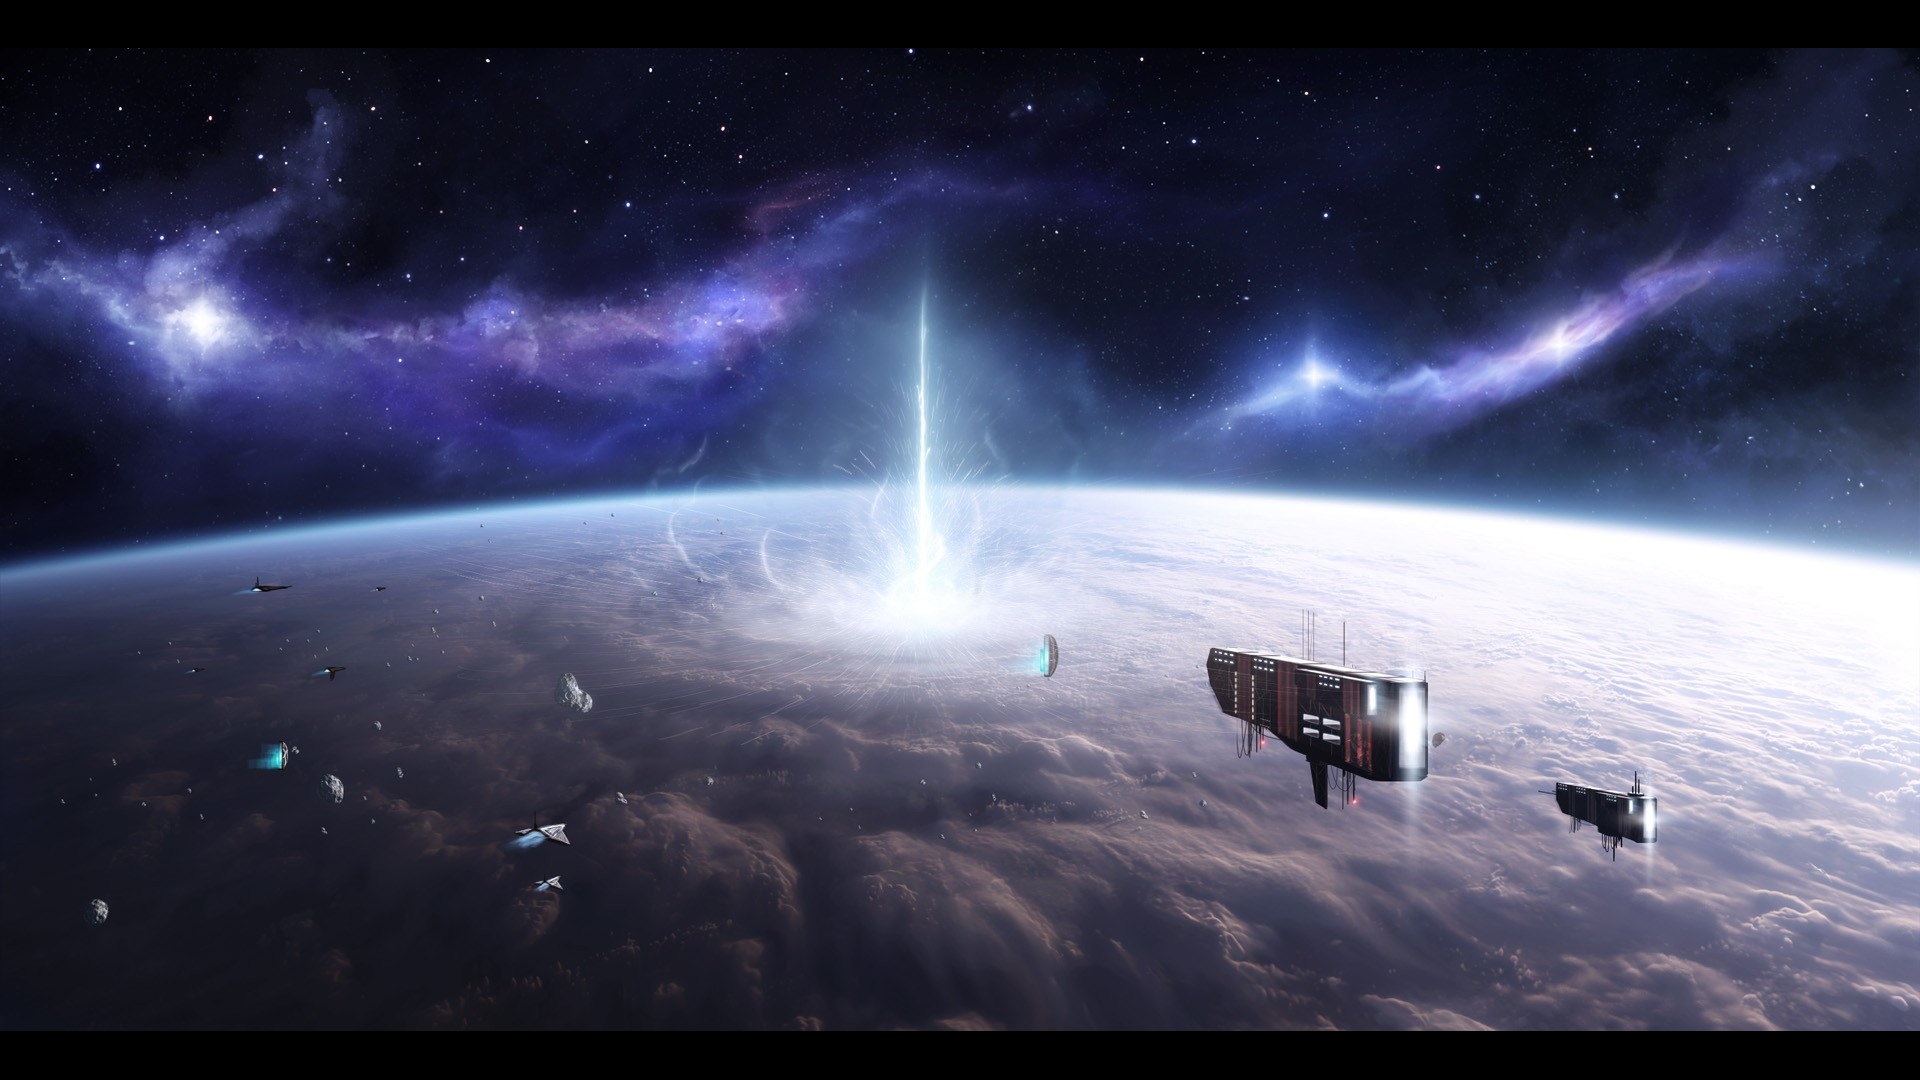
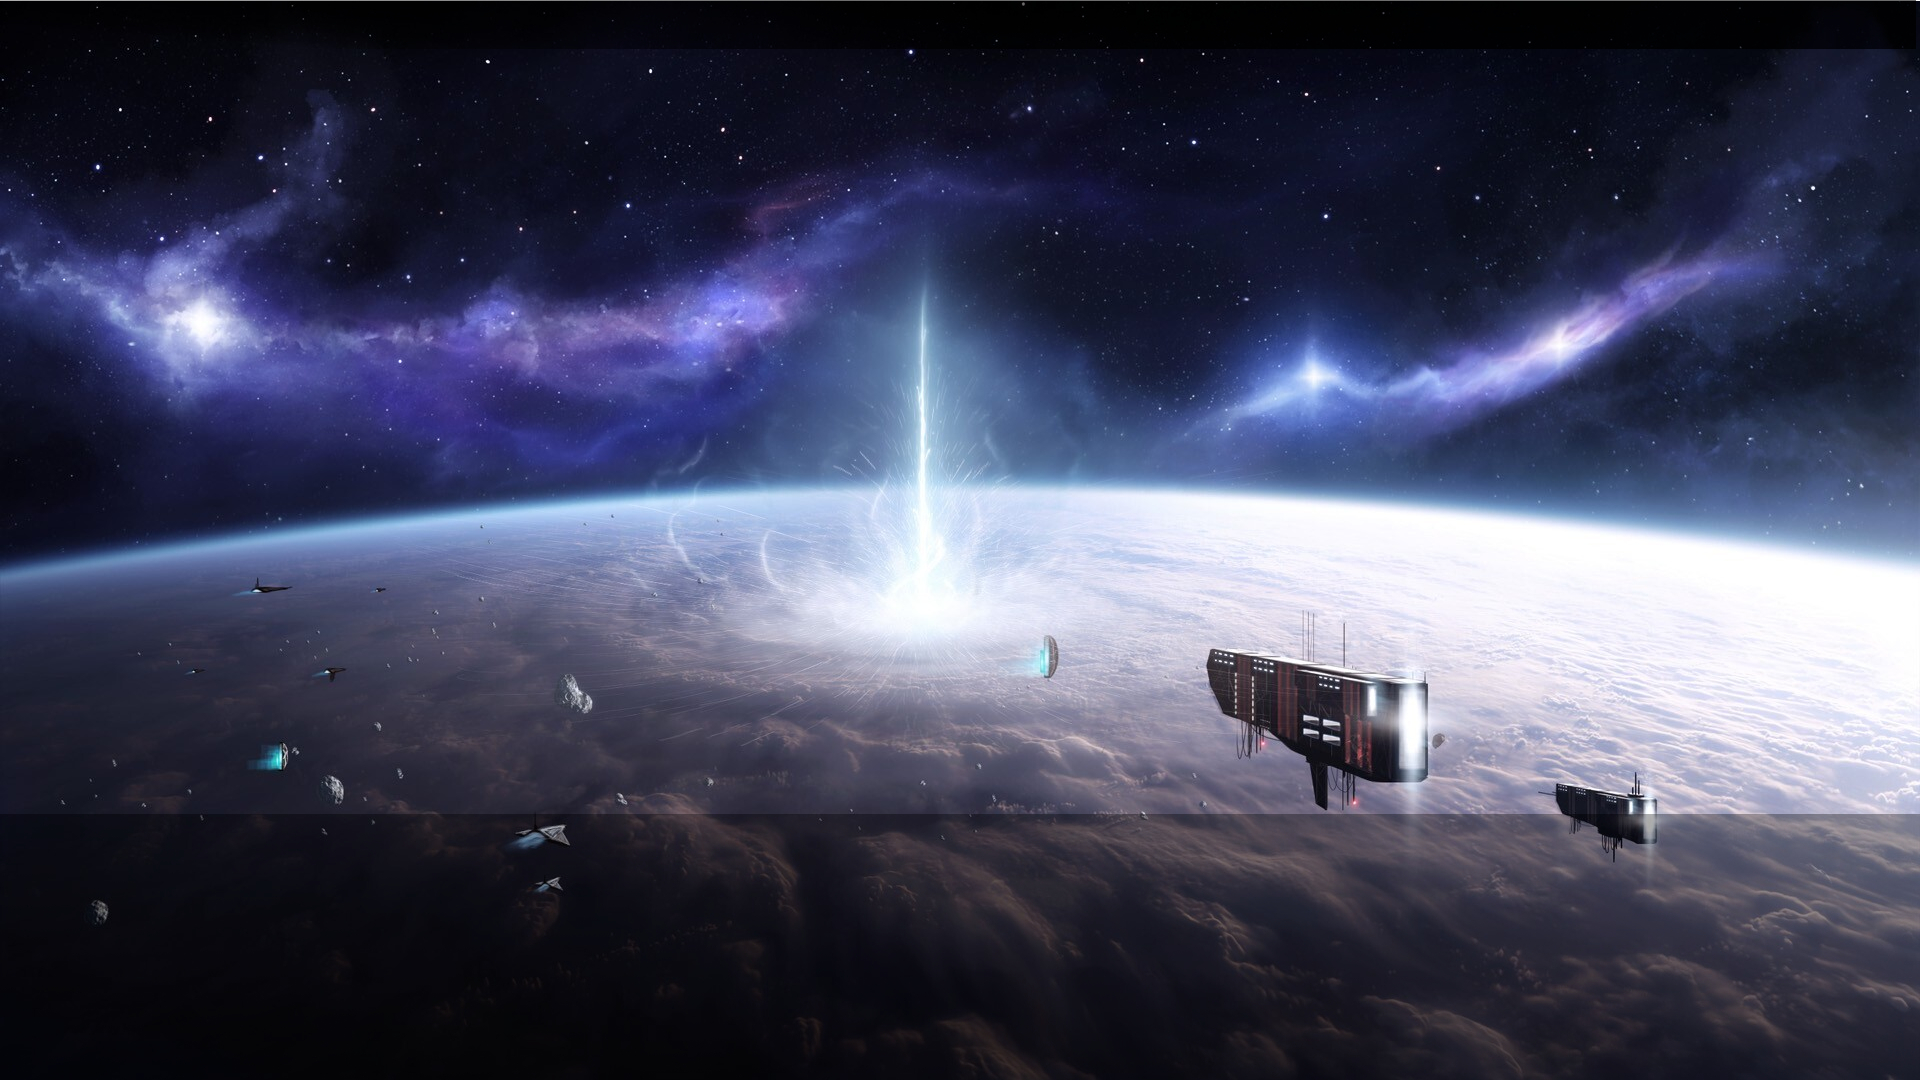
multiples cambios

diff --git a/js/index.js b/js/index.js
@@ -89,7 +89,8 @@ window.onload = () => {
     }
 
     accelerate(){
-      this.x -=10;
+      this.vel +=20;
+      console.log("fiuuum")
     }
 
     
@@ -109,8 +110,9 @@ window.onload = () => {
       this.lifes = 3;
     }
     start() {      
-      const audio = new Audio("audio.mp3");
-      audio.play();
+      const audioBackground = new Audio("audio.mp3");
+      audioBackground.volume = 0.2;
+      audioBackground.play();
       if(this.intervalId == undefined) {
         this.intervalId = setInterval(()=>{
           this.iteracion ++;
@@ -122,9 +124,10 @@ window.onload = () => {
           this.print();
         }, 20);
       }
-      setTimeout(()=>{this.stop()},350000)
-
+      
+      setTimeout(()=>{this.stop()},60000)
     }
+
     stop() {
       if(this.lifes<=0){
         if(this.intervalId) clearInterval(this.intervalId);
@@ -162,9 +165,12 @@ window.onload = () => {
           }
       }
       else{
+        const audioPlof = new Audio("plof.mp3");
+        audioPlof.play();
         this.astronaut.colornautImg.src = "images/plof.png";
         this.astronaut.w = 100;
         this.astronaut.h = 100;
+
         setTimeout(()=>{this.stop()},100) 
       }
 
@@ -199,12 +205,12 @@ window.onload = () => {
       }
 
       if(this.iteracion == (Math.ceil(Math.random() * 50) + 50)) {
-        let obstaculoRojo = new Obstaculo(this.canvas, 10, 200, 786, 6, "images/redObstacle.png", "redStarship");
+        let obstaculoRojo = new Obstaculo(this.canvas, 10, 200, 615, 6, "images/redObstacle.png", "redStarship");
         this.obstaculos.push(obstaculoRojo);
         this.iteracion = 0;
       }
       if(this.iteracion == (Math.ceil(Math.random() * 50) + 50)) {
-        let obstaculoAzul = new Obstaculo(this.canvas, 10, 200, 786, 6, "images/blueObstacle.png", "blueStarship");
+        let obstaculoAzul = new Obstaculo(this.canvas, 10, 200, 615, 6, "images/blueObstacle.png", "blueStarship");
         this.obstaculos.push(obstaculoAzul);
         this.iteracion = 0;
       }
@@ -245,7 +251,6 @@ window.onload = () => {
     switch(event.key) {
       case "ArrowUp":
         juego.astronaut.jetpackUp();  
-      
         break;
       case "ArrowDown":
         juego.astronaut.jetpackDown();
@@ -256,10 +261,9 @@ window.onload = () => {
       case "ArrowRight":
           juego.astronaut.changeColorBlue();
         break;
-      case "Spacebar":
-          juego.Obstaculo.accelerate();
+      case "Space":
+        console.log("Space");
         break;
-        
     }
   });
 

diff --git a/index.html b/index.html
@@ -16,7 +16,7 @@
   <body>
 
     <div id="game-board">
-      <canvas id="canvas" width="1500" height="800"></canvas>
+      <canvas id="canvas" width="1500" height="615"></canvas>
       <div id="restart"></div>
       <div id ="titleGame">
         <h1>colorNAUT</h1>
